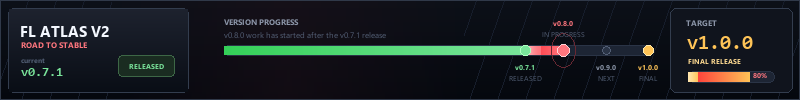
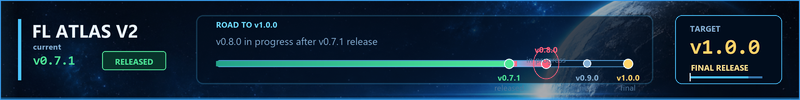
feat(assets): update FL Atlas V2 signature generator with modern flat design
- Redesign signature generator to use a modern flat aesthetic with new color palette
- Add high-resolution rendering with 3x scaling for sharper output
- Replace old background with new flatlas-v2-signature-bg.png asset
- Add new splash screen image asset
- Reduce animation frame rate from 24 to 12 FPS for smoother appearance
- Update milestone labels to lowercase for cleaner typography
- Improve font handling with scaled sizes and new font variants

diff --git a/assets/img/widgets/make_flatlas_v2_sig.py b/assets/img/widgets/make_flatlas_v2_sig.py
@@ -1,64 +1,64 @@
 #!/usr/bin/env python3
-"""Generate FL Atlas V2 progress forum signatures."""
+"""Generate modern flat FL Atlas V2 forum signatures."""
 
 from __future__ import annotations
 
 import math
 from pathlib import Path
-from PIL import Image, ImageDraw, ImageFont
+
+from PIL import Image, ImageDraw, ImageEnhance, ImageFilter, ImageFont
 
 
 W, H = 800, 100
+SCALE = 3
+SW, SH = W * SCALE, H * SCALE
+BASE = Path(__file__).parent / "flatlas-v2-signature-bg.png"
 OUT = Path(__file__).parent / "widget-flatlas-v2-progress.png"
 OUT_GIF = Path(__file__).parent / "widget-animated-flatlas-v2-progress.gif"
-FPS = 24
+FPS = 12
 DURATION_S = 3
 TOTAL_FRAMES = FPS * DURATION_S
 
-BG_TOP = (12, 16, 24)
-BG_BOTTOM = (5, 8, 14)
-PANEL = (17, 23, 34)
-PANEL_B = (9, 13, 21)
-GRID = (34, 45, 64)
-TEXT = (244, 248, 255)
-MUTED = (139, 149, 168)
-DIM = (82, 94, 116)
-RED = (255, 45, 55)
-RED_2 = (255, 118, 126)
-BLUE = (88, 166, 255)
-BLUE_2 = (126, 198, 255)
-GREEN = (52, 208, 88)
-GREEN_2 = (122, 229, 155)
-GOLD = (255, 196, 87)
-TRACK = (29, 37, 52)
-TRACK_2 = (42, 52, 70)
-BORDER = (51, 61, 78)
-
+TEXT = (237, 247, 255)
+MUTED = (132, 174, 210)
+DIM = (82, 119, 154)
+CYAN = (74, 197, 255)
+CYAN_SOFT = (112, 222, 255)
+GREEN = (77, 230, 151)
+RED = (255, 94, 124)
+GOLD = (255, 211, 104)
 
 MILESTONES = [
-    {"version": "v0.7.1", "label": "RELEASED", "pct": 71, "state": "done"},
-    {"version": "v0.8.0", "label": "IN PROGRESS", "pct": 80, "state": "active"},
-    {"version": "v0.9.0", "label": "NEXT", "pct": 90, "state": "next"},
-    {"version": "v1.0.0", "label": "FINAL", "pct": 100, "state": "final"},
+    {"version": "v0.7.1", "label": "released", "pct": 71, "state": "done"},
+    {"version": "v0.8.0", "label": "in progress", "pct": 80, "state": "active"},
+    {"version": "v0.9.0", "label": "next", "pct": 90, "state": "next"},
+    {"version": "v1.0.0", "label": "final", "pct": 100, "state": "final"},
 ]
 
 
-def load_font(names: list[str], size: int) -> ImageFont.FreeTypeFont:
+def load_font(names: list[str], size: int) -> ImageFont.ImageFont:
     for name in names:
         try:
-            return ImageFont.truetype(name, size)
+            return ImageFont.truetype(name, size * SCALE)
         except OSError:
             continue
     return ImageFont.load_default()
 
 
-FONT_TITLE = load_font(["segoeuib.ttf", "arialbd.ttf"], 15)
-FONT_SUB = load_font(["segoeui.ttf", "arial.ttf"], 8)
+FONT_BRAND = load_font(["segoeuib.ttf", "arialbd.ttf"], 18)
+FONT_LABEL = load_font(["segoeui.ttf", "arial.ttf"], 8)
+FONT_LABEL_BOLD = load_font(["segoeuib.ttf", "arialbd.ttf"], 8)
+FONT_BODY = load_font(["segoeui.ttf", "arial.ttf"], 10)
 FONT_MONO = load_font(["consolab.ttf", "consola.ttf", "arialbd.ttf"], 13)
-FONT_SMALL_BOLD = load_font(["segoeuib.ttf", "arialbd.ttf"], 8)
-FONT_TINY = load_font(["segoeui.ttf", "arial.ttf"], 7)
-FONT_TINY_BOLD = load_font(["segoeuib.ttf", "arialbd.ttf"], 7)
-FONT_BIG = load_font(["consolab.ttf", "arialbd.ttf"], 20)
+FONT_BIG = load_font(["consolab.ttf", "arialbd.ttf"], 21)
+
+
+def sc(value: int | float) -> int:
+    return round(value * SCALE)
+
+
+def rgba(color: tuple[int, int, int], alpha: int) -> tuple[int, int, int, int]:
+    return color + (alpha,)
 
 
 def lerp(a: tuple[int, int, int], b: tuple[int, int, int], t: float) -> tuple[int, int, int]:
@@ -71,150 +71,130 @@ def text_size(draw: ImageDraw.ImageDraw, text: str, font: ImageFont.ImageFont) -
     return box[2] - box[0], box[3] - box[1]
 
 
-def centered_text(
-    draw: ImageDraw.ImageDraw,
-    center: tuple[int, int],
-    text: str,
-    font: ImageFont.ImageFont,
-    fill: tuple[int, int, int],
-) -> None:
-    tw, th = text_size(draw, text, font)
-    draw.text((center[0] - tw // 2, center[1] - th // 2 - 1), text, font=font, fill=fill)
-
-
 def rounded(draw: ImageDraw.ImageDraw, box: list[int], radius: int, fill, outline=None, width: int = 1) -> None:
-    draw.rounded_rectangle(box, radius=radius, fill=fill, outline=outline, width=width)
+    draw.rounded_rectangle([sc(v) for v in box], radius=sc(radius), fill=fill, outline=outline, width=sc(width))
 
 
-def draw_background(draw: ImageDraw.ImageDraw, phase: float = 0.0) -> None:
-    for y in range(H):
-        c = lerp(BG_TOP, BG_BOTTOM, y / (H - 1))
-        draw.line([(0, y), (W, y)], fill=c)
-
-    offset = round(phase * 28)
-    for x in range(-28 + offset, W + 28, 28):
-        shade = lerp(GRID, BG_BOTTOM, 0.42)
-        draw.line([(x, 0), (x - 35, H)], fill=shade)
-
-    for x in range(W):
-        t = x / (W - 1)
-        glow = max(0.0, 1.0 - abs(t - 0.36) / 0.22)
-        if glow <= 0:
-            continue
-        for y in range(0, H, 2):
-            base = lerp(BG_TOP, BG_BOTTOM, y / (H - 1))
-            c = lerp(base, (34, 16, 25), glow * 0.42)
-            draw.point((x, y), fill=c)
-            if y + 1 < H:
-                draw.point((x, y + 1), fill=c)
+def text(draw: ImageDraw.ImageDraw, xy: tuple[int, int], value: str, font: ImageFont.ImageFont, fill) -> None:
+    draw.text((sc(xy[0]), sc(xy[1])), value, font=font, fill=fill)
 
 
-def draw_left_block(draw: ImageDraw.ImageDraw, phase: float = 0.0) -> None:
-    rounded(draw, [8, 8, 188, 92], 6, PANEL, BORDER)
-    for y in range(9, 92):
-        c = lerp((29, 34, 46), PANEL_B, (y - 9) / 83)
-        draw.line([(9, y), (187, y)], fill=c)
+def make_background(phase: float) -> Image.Image:
+    src = Image.open(BASE).convert("RGB")
+    src_ratio = src.width / src.height
+    target_ratio = W / H
+    if src_ratio > target_ratio:
+      crop_h = src.height
+      crop_w = round(crop_h * target_ratio)
+      # Keep the planet glow on the right, with calm negative space on the left.
+      left = min(src.width - crop_w, round(src.width * 0.25))
+      top = 0
+    else:
+      crop_w = src.width
+      crop_h = round(crop_w / target_ratio)
+      left = 0
+      top = max(0, round(src.height * 0.34) - crop_h // 2)
+    crop = src.crop((left, top, left + crop_w, top + crop_h))
+    bg = crop.resize((SW, SH), Image.LANCZOS)
+    bg = ImageEnhance.Color(bg).enhance(0.92)
+    bg = ImageEnhance.Contrast(bg).enhance(0.92)
+    bg = bg.filter(ImageFilter.GaussianBlur(sc(0.45)))
 
-    draw.text((20, 20), "FL ATLAS V2", font=FONT_TITLE, fill=TEXT)
-    draw.text((21, 39), "ROAD TO STABLE", font=FONT_SMALL_BOLD, fill=RED_2)
-    draw.text((21, 55), "current", font=FONT_TINY_BOLD, fill=DIM)
-    draw.text((21, 66), "v0.7.1", font=FONT_MONO, fill=GREEN_2)
+    overlay = Image.new("RGBA", (SW, SH), (0, 0, 0, 0))
+    draw = ImageDraw.Draw(overlay)
+    for x in range(SW):
+        t = x / max(1, SW - 1)
+        shade = int(150 - 54 * t)
+        draw.line([(x, 0), (x, SH)], fill=(0, 8, 19, shade))
+    draw.rectangle([0, 0, SW, SH], fill=(2, 11, 25, 74))
 
-    pulse = 0.5 + 0.5 * math.sin(phase * math.tau)
-    badge_fill = lerp((22, 34, 28), (31, 55, 38), pulse)
-    rounded(draw, [118, 55, 174, 76], 4, badge_fill, (61, 103, 70))
-    centered_text(draw, (146, 65), "RELEASED", FONT_TINY_BOLD, GREEN_2)
+    # A very restrained sweep in the animated variant.
+    sweep_x = round((phase % 1) * SW)
+    for x in range(max(0, sweep_x - sc(18)), min(SW, sweep_x + sc(18))):
+        strength = int((1 - abs(x - sweep_x) / sc(18)) * 22)
+        draw.line([(x, 0), (x, SH)], fill=(82, 202, 255, strength))
+
+    # Thin flat brand line inspired by the splash screen.
+    draw.line([(0, SH - sc(2)), (SW, SH - sc(2))], fill=(30, 148, 230, 155), width=sc(1))
+    return Image.alpha_composite(bg.convert("RGBA"), overlay)
 
 
-def draw_progress(draw: ImageDraw.ImageDraw, phase: float = 0.0) -> None:
-    bar_x0, bar_y0 = 224, 45
-    bar_w, bar_h = 424, 10
-    bar_x1 = bar_x0 + bar_w
+def draw_brand(draw: ImageDraw.ImageDraw) -> None:
+    draw.rectangle([sc(18), sc(19), sc(21), sc(80)], fill=rgba(CYAN, 230))
+    text(draw, (32, 18), "FL ATLAS V2", FONT_BRAND, TEXT)
+    text(draw, (33, 41), "current", FONT_LABEL_BOLD, rgba(MUTED, 245))
+    text(draw, (33, 55), "v0.7.1", FONT_MONO, rgba(GREEN, 255))
+    rounded(draw, [102, 51, 166, 70], 3, (9, 52, 43, 202), (84, 230, 155, 150))
+    tw, th = text_size(draw, "RELEASED", FONT_LABEL_BOLD)
+    draw.text((sc(134) - tw // 2, sc(56)), "RELEASED", font=FONT_LABEL_BOLD, fill=rgba(GREEN, 255))
 
-    draw.text((224, 16), "VERSION PROGRESS", font=FONT_SMALL_BOLD, fill=MUTED)
-    draw.text((224, 29), "v0.8.0 work has started after the v0.7.1 release", font=FONT_SUB, fill=DIM)
 
-    rounded(draw, [bar_x0, bar_y0, bar_x1, bar_y0 + bar_h], 5, TRACK, TRACK_2)
+def draw_progress(draw: ImageDraw.ImageDraw, phase: float) -> None:
+    panel = Image.new("RGBA", (SW, SH), (0, 0, 0, 0))
+    pd = ImageDraw.Draw(panel)
+    rounded(pd, [196, 15, 653, 84], 7, (2, 13, 29, 166), (74, 197, 255, 70))
+    panel = panel.filter(ImageFilter.GaussianBlur(sc(0.2)))
+    draw._image.alpha_composite(panel)
+
+    text(draw, (216, 19), "ROAD TO v1.0.0", FONT_LABEL_BOLD, rgba(CYAN_SOFT, 245))
+    text(draw, (216, 34), "v0.8.0 in progress after v0.7.1 release", FONT_BODY, rgba(MUTED, 235))
+
+    x0, y0 = 216, 60
+    bar_w, bar_h = 412, 7
+    rounded(draw, [x0, y0, x0 + bar_w, y0 + bar_h], 4, (8, 28, 49, 235), (80, 156, 214, 120))
 
     released_w = round(bar_w * 0.71)
     active_w = round(bar_w * 0.80)
-    for x in range(bar_x0, bar_x0 + released_w):
-        c = lerp(GREEN, GREEN_2, (x - bar_x0) / max(1, released_w))
-        draw.line([(x, bar_y0 + 1), (x, bar_y0 + bar_h - 1)], fill=c)
-    for x in range(bar_x0 + released_w, bar_x0 + active_w):
-        c = lerp(RED, RED_2, (x - (bar_x0 + released_w)) / max(1, active_w - released_w))
-        draw.line([(x, bar_y0 + 1), (x, bar_y0 + bar_h - 1)], fill=c)
+    for x in range(sc(x0), sc(x0 + released_w)):
+        c = lerp((35, 161, 136), GREEN, (x - sc(x0)) / max(1, sc(released_w)))
+        draw.line([(x, sc(y0 + 1)), (x, sc(y0 + bar_h - 1))], fill=rgba(c, 255), width=1)
+    for x in range(sc(x0 + released_w), sc(x0 + active_w)):
+        c = lerp(CYAN, RED, (x - sc(x0 + released_w)) / max(1, sc(active_w - released_w)))
+        draw.line([(x, sc(y0 + 1)), (x, sc(y0 + bar_h - 1))], fill=rgba(c, 255), width=1)
 
-    shimmer_x = bar_x0 + released_w + round((active_w - released_w) * phase)
-    shimmer_hw = 16
-    for x in range(max(bar_x0 + released_w, shimmer_x - shimmer_hw), min(bar_x0 + active_w, shimmer_x + shimmer_hw)):
-        d = abs(x - shimmer_x)
-        amount = (1.0 - d / shimmer_hw) ** 2
-        c = lerp(RED_2, (255, 240, 242), amount * 0.8)
-        draw.line([(x, bar_y0 + 1), (x, bar_y0 + bar_h - 1)], fill=c)
+    shimmer = sc(x0 + released_w) + round(sc(active_w - released_w) * phase)
+    for x in range(max(sc(x0 + released_w), shimmer - sc(8)), min(sc(x0 + active_w), shimmer + sc(8))):
+        amount = 1 - abs(x - shimmer) / max(1, sc(8))
+        draw.line([(x, sc(y0 + 1)), (x, sc(y0 + bar_h - 1))], fill=rgba(lerp(RED, TEXT, amount * 0.6), 230), width=1)
 
     for item in MILESTONES:
-        x = bar_x0 + round(bar_w * item["pct"] / 100)
-        state = item["state"]
-        if state == "done":
-            fill, outline, text_fill = GREEN_2, (176, 255, 195), GREEN_2
-            r = 5
-        elif state == "active":
-            fill, outline, text_fill = RED_2, (255, 211, 214), RED_2
-            r = 6
+        x = x0 + round(bar_w * item["pct"] / 100)
+        color = {"done": GREEN, "active": RED, "next": MUTED, "final": GOLD}[item["state"]]
+        r = 5 if item["state"] in {"active", "final", "done"} else 4
+        if item["state"] == "active":
             pulse = 0.5 + 0.5 * math.sin(phase * math.tau)
-            glow_r = 10 + round(pulse * 4)
-            glow_col = lerp((78, 31, 39), (130, 50, 62), pulse)
-            draw.ellipse([x - glow_r, bar_y0 - glow_r, x + glow_r, bar_y0 + bar_h + glow_r], outline=glow_col, width=1)
-        elif state == "final":
-            fill, outline, text_fill = GOLD, (255, 234, 173), GOLD
-            r = 5
-        else:
-            fill, outline, text_fill = TRACK_2, (82, 94, 116), MUTED
-            r = 4
-
-        draw.ellipse([x - r, bar_y0 + bar_h // 2 - r, x + r, bar_y0 + bar_h // 2 + r], fill=fill, outline=outline)
-        version_y = 62 if state in {"done", "next"} else 18 if state == "active" else 62
-        label_y = version_y + 11
-        tw, _ = text_size(draw, item["version"], FONT_TINY_BOLD)
-        draw.text((x - tw // 2, version_y), item["version"], font=FONT_TINY_BOLD, fill=text_fill)
-        lw, _ = text_size(draw, item["label"], FONT_TINY)
-        draw.text((x - lw // 2, label_y), item["label"], font=FONT_TINY, fill=DIM)
+            draw.ellipse([sc(x - 12 - pulse * 2), sc(y0 - 11 - pulse * 2), sc(x + 12 + pulse * 2), sc(y0 + 18 + pulse * 2)], outline=rgba(RED, 110), width=sc(1))
+        draw.ellipse([sc(x - r), sc(y0 + bar_h / 2 - r), sc(x + r), sc(y0 + bar_h / 2 + r)], fill=rgba(color, 255), outline=rgba(TEXT, 210), width=sc(1))
+        vy = 72 if item["state"] != "active" else 44
+        tw, _ = text_size(draw, item["version"], FONT_LABEL_BOLD)
+        draw.text((sc(x) - tw // 2, sc(vy)), item["version"], font=FONT_LABEL_BOLD, fill=rgba(color, 255))
+        lw, _ = text_size(draw, item["label"], FONT_LABEL)
+        draw.text((sc(x) - lw // 2, sc(vy + 10)), item["label"], font=FONT_LABEL, fill=rgba(DIM, 245))
 
 
-def draw_right_block(draw: ImageDraw.ImageDraw, phase: float = 0.0) -> None:
-    rounded(draw, [670, 8, 792, 92], 6, (16, 20, 29), BORDER)
-    draw.text((686, 17), "TARGET", font=FONT_SMALL_BOLD, fill=MUTED)
-    draw.text((687, 34), "v1.0.0", font=FONT_BIG, fill=GOLD)
-    draw.text((688, 56), "FINAL RELEASE", font=FONT_TINY_BOLD, fill=(255, 219, 146))
-
-    rounded(draw, [688, 71, 774, 82], 5, TRACK, TRACK_2)
-    for x in range(688, 750):
-        c = lerp(RED, GOLD, (x - 688) / 62)
-        draw.line([(x, 72), (x, 81)], fill=c)
-    scan = 688 + round(62 * phase)
-    for x in range(max(688, scan - 10), min(750, scan + 10)):
-        d = abs(x - scan)
-        c = lerp(GOLD, (255, 245, 211), (1.0 - d / 10) * 0.7)
-        draw.line([(x, 72), (x, 81)], fill=c)
-    draw.text((753, 70), "80%", font=FONT_TINY_BOLD, fill=RED_2)
+def draw_target(draw: ImageDraw.ImageDraw, phase: float) -> None:
+    rounded(draw, [675, 15, 782, 84], 7, (2, 13, 29, 174), (74, 197, 255, 92))
+    text(draw, (690, 23), "TARGET", FONT_LABEL_BOLD, rgba(MUTED, 245))
+    text(draw, (690, 38), "v1.0.0", FONT_BIG, rgba(GOLD, 255))
+    text(draw, (691, 62), "FINAL RELEASE", FONT_LABEL_BOLD, rgba((255, 225, 144), 255))
+    draw.line([(sc(690), sc(77)), (sc(762), sc(77))], fill=rgba((55, 119, 174), 210), width=sc(2))
+    draw.line([(sc(690), sc(77)), (sc(748), sc(77))], fill=rgba(CYAN, 230), width=sc(2))
+    scan = sc(690) + round(sc(58) * phase)
+    draw.line([(scan, sc(73)), (scan, sc(81))], fill=rgba(TEXT, 210), width=sc(1))
 
 
 def render_frame(phase: float = 0.0) -> Image.Image:
-    img = Image.new("RGB", (W, H), BG_BOTTOM)
-    draw = ImageDraw.Draw(img)
-
-    draw_background(draw, phase)
-    draw_left_block(draw, phase)
+    img = make_background(phase)
+    draw = ImageDraw.Draw(img, "RGBA")
+    draw_brand(draw)
     draw_progress(draw, phase)
-    draw_right_block(draw, phase)
-    draw.rectangle([0, 0, W - 1, H - 1], outline=(48, 57, 73))
-    return img
+    draw_target(draw, phase)
+    draw.rectangle([0, 0, SW - 1, SH - 1], outline=rgba((56, 158, 238), 180), width=sc(1))
+    return img.resize((W, H), Image.Resampling.LANCZOS).convert("RGB")
 
 
 def save_static() -> None:
     img = render_frame(0.0)
-
     img.save(OUT, optimize=True)
     print(f"Saved {OUT.name} ({W}x{H}, {OUT.stat().st_size // 1024} KB)")
 
@@ -222,11 +202,9 @@ def save_static() -> None:
 def save_gif() -> None:
     frames = []
     for idx in range(TOTAL_FRAMES):
-        if idx % 2 != 0:
+        if idx % 2:
             continue
-        phase = idx / TOTAL_FRAMES
-        frames.append(render_frame(phase).quantize(colors=96))
-
+        frames.append(render_frame(idx / TOTAL_FRAMES).quantize(colors=96))
     frames[0].save(
         OUT_GIF,
         save_all=True,
